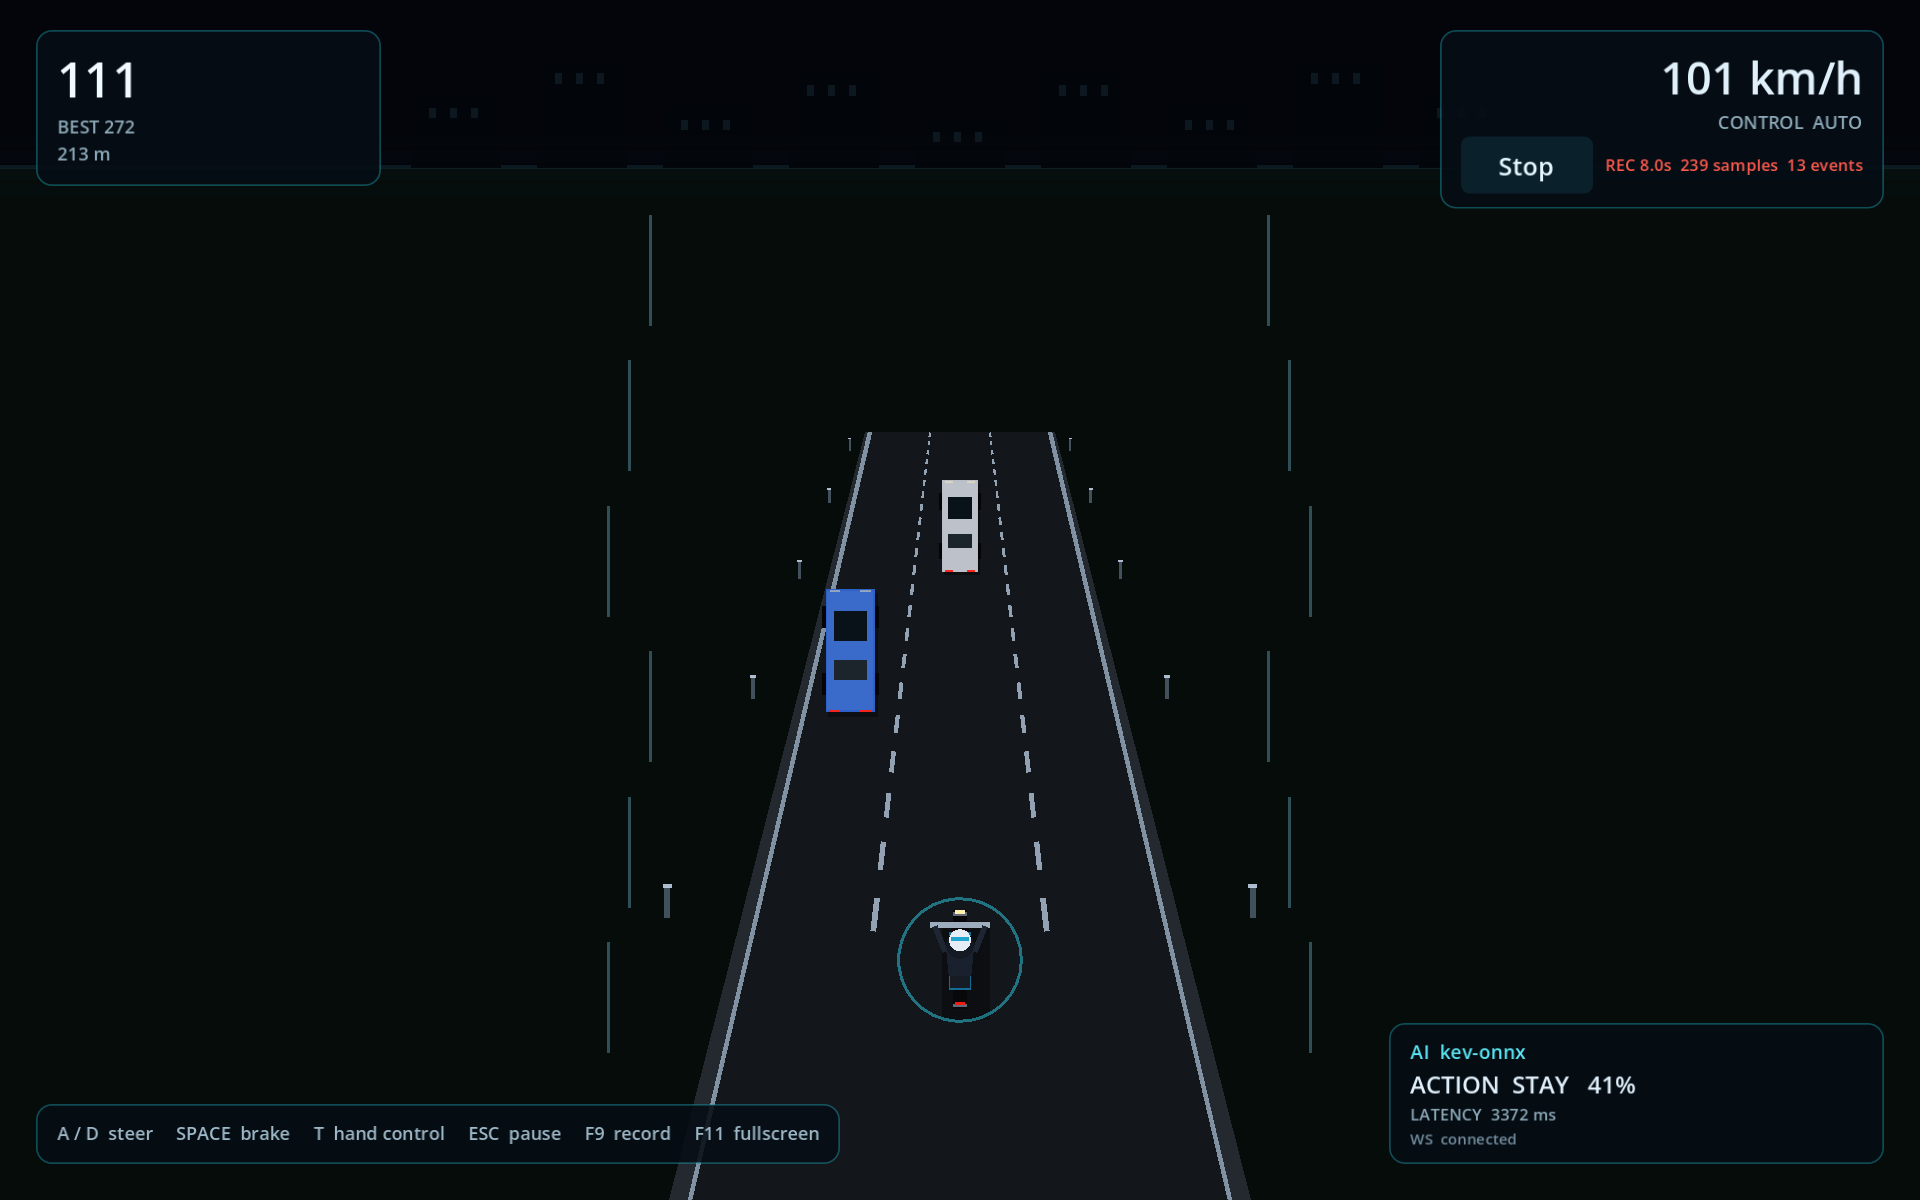
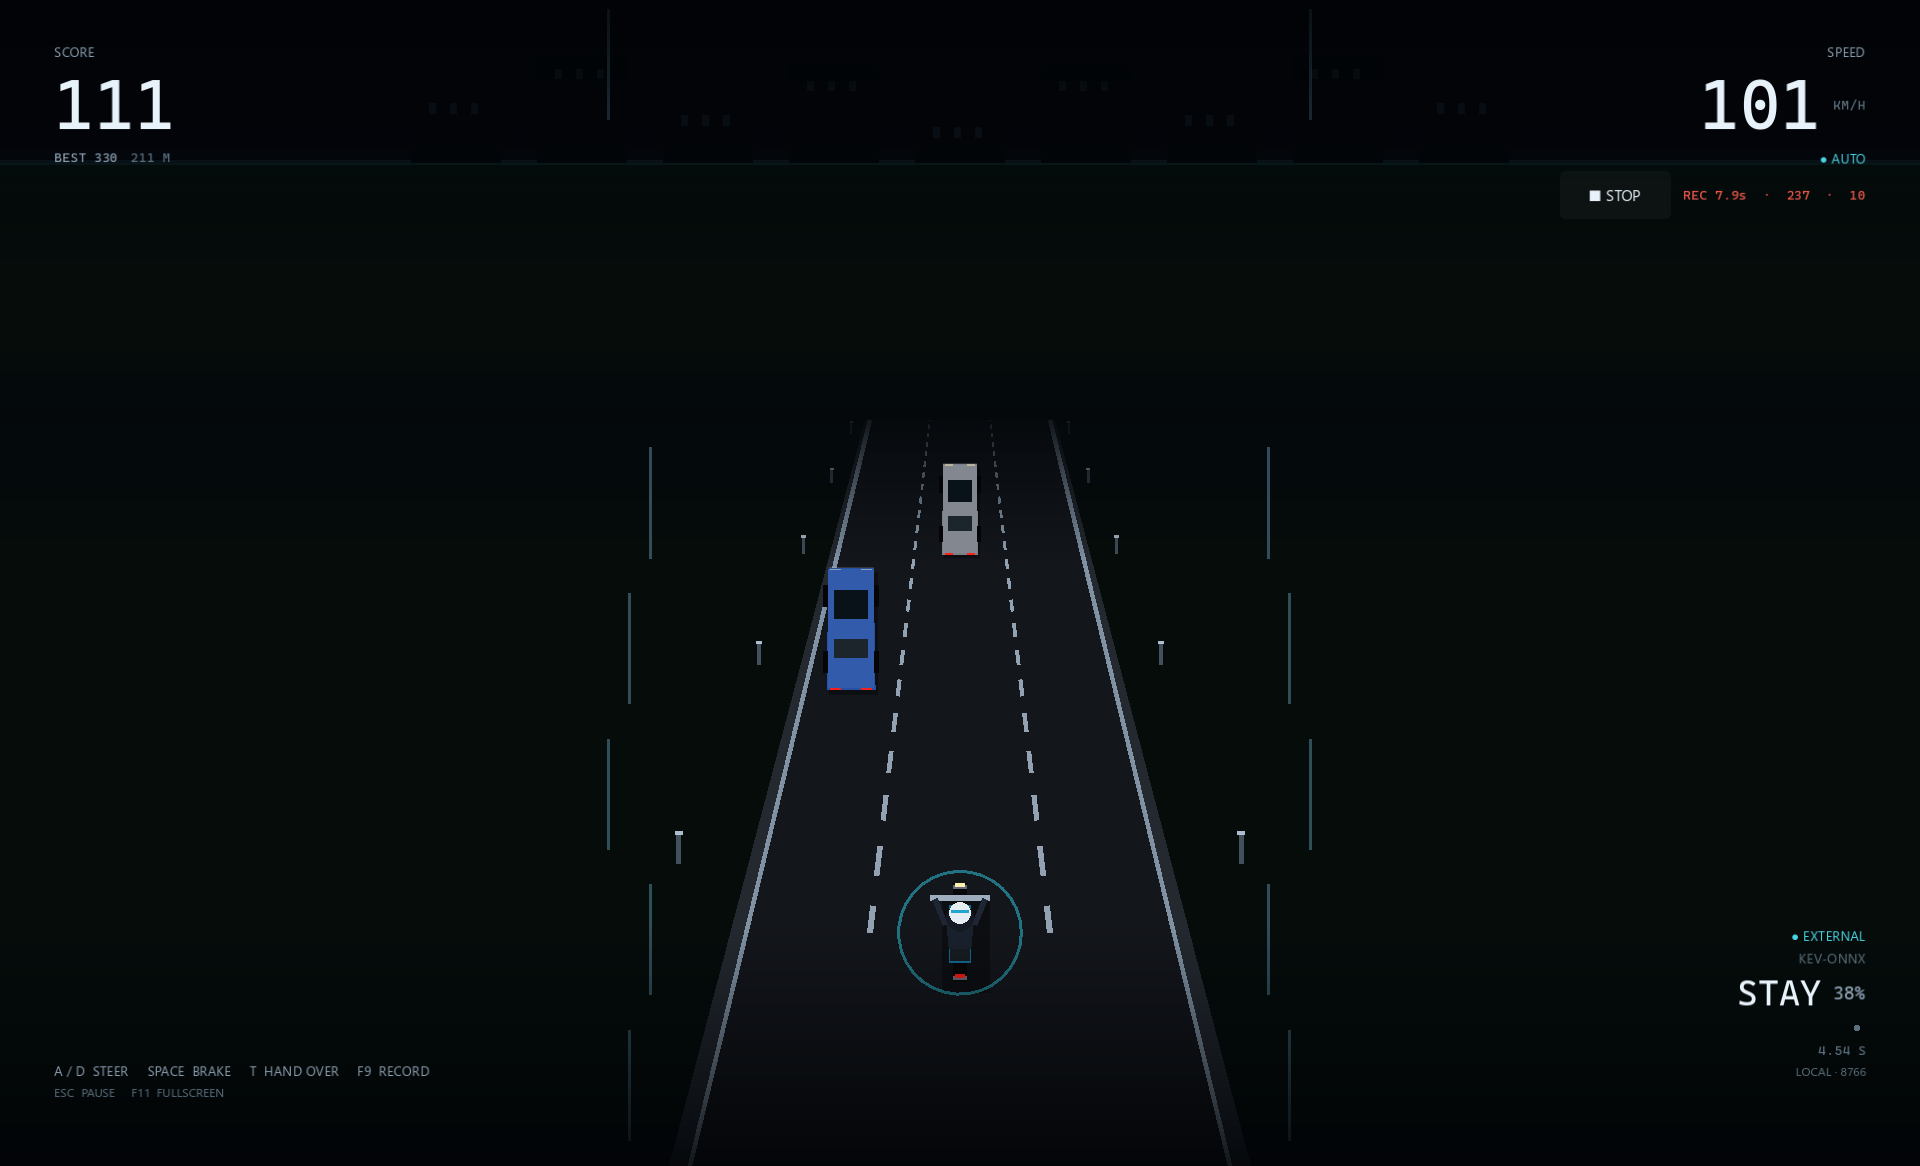
docs: refresh screenshots and packaged Kev notes

diff --git a/CHECKPOINT.md b/CHECKPOINT.md
@@ -2,18 +2,23 @@
 
 ## Current state
 
-- Godot 4.7.2 top-down three-lane driving game with a coherent pseudo-perspective road, lane geometry, traffic sprites, crash feedback, corner HUD, fullscreen by default and a presentation-only title state.
-- Authoritative simulation with seeded traffic, discrete actions and episode summaries. Action counts now count accepted actions rather than only action changes.
+- Godot 4.7.2 top-down three-lane driving game with a coherent pseudo-perspective road, depth fog, lane geometry, traffic sprites, crash feedback and a typographic corner HUD with no bordered scene panels.
+- Title screen is a left-aligned composition over the live road, not a centered dialog. Pause and run-ended states use the same type and one primary action.
+- The HUD has a large score/speed pair, small tracked captions, an AI instrument with action probability, action-history dots, latency and local WebSocket state, and a first-run controls line.
+- Authoritative simulation with seeded traffic, discrete actions and episode summaries. Action counts count accepted actions rather than only action changes.
 - Telemetry logger with an explicit session lifetime. Recording after a run has already started no longer disables the logger. Recovery files stay under the portable recordings root.
 - Python controller with `dummy`, `rule_based`, local ONNX Kev and the HTTP Kev System One adapter. The ONNX path records a configurable model id, label source and SHA-256 of the model file.
+- The packaged launcher uses `Start-Process` for the exported game so `--ws-port` survives the Windows argument binding, and waits for the controller before launching.
+- The ONNX policy falls back to in-memory external weights on RAM disks. This is what makes the packaged agent work when the folder is extracted to `R:`; the first load is slower.
 - Matched experiment runner for baselines and ONNX. It passes the same seed list, duration, traffic density, simulation speed, timeout and staleness bounds to every policy.
-- One-click local Kev play: `PLAY-KEV.bat` starts the ONNX controller and the game, opens the AI status panel and records the session.
+- One-click local Kev play: `PLAY-KEV.bat` starts the ONNX controller and the game, opens the AI instrument and records the session.
 
 ## Verification
 
 - `run_tests.bat`: 38 Python tests plus Godot import, simulation, game-flow, network, telemetry, telemetry-flow and options tests pass.
 - `tests/telemetry_flow_test.gd` reproduces the real user path: start a run, play before Record, press Record, play, stop, then assert non-zero telemetry and events and a matching manifest.
-- Local ONNX Kev: 5 decisions in an 8-second episode, all accepted, `control_source=original_model`, mean model latency about 1.36 s.
+- Local ONNX Kev on the normal disk: 5 decisions in an 8-second episode, all accepted, `control_source=original_model`, mean model latency about 1.36 s.
+- Packaged ONNX Kev extracted to `R:`: the in-memory fallback loads the weights, the controller connects over WebSocket 8766, and the game accepts decisions (`control_source=original_model`). The RAM-disk fallback is slower, roughly 4.5 s per decision in the test run.
 - Matched pilot: `rule_based` vs `onnx_kev`, same 5 seeds, 20 s, density 0.7, sim speed 1.0. See `docs/RESULTS.md` for the numbers.
 
 ## Remaining work

diff --git a/README.md b/README.md
@@ -11,7 +11,7 @@ The project is intended to support experiments in fine-tuning compact decision m
 What works today:
 
 - A playable Godot driving simulator with human keyboard controls, a title screen, HUD, pause, game over and restart.
-- A coherent pseudo-perspective road, lane geometry, traffic sprites, crash feedback and corner HUD (the earlier full-width toolbar and lane markings through cars are gone).
+- A coherent pseudo-perspective road with depth fog, lane geometry, traffic sprites, crash feedback, a typographic corner HUD, and a left-aligned title composition over the live road. The earlier full-width toolbar, bordered HUD cards and lane markings through cars are gone.
 - Simulation-state export and periodic telemetry at roughly 30 Hz of simulation time. Recording works after a run has already started; the integration test covers that path.
 - Event-based action and episode logs.
 - A Python controller communicating with the game over a localhost WebSocket.
@@ -77,7 +77,9 @@ PLAY-KEV.bat -Windowed
 PLAY-KEV.bat -Episodes 10 -EpisodeDuration 20
 ```
 
-The controller starts on port `8766`, waits for the model to load, then launches the game in auto-run with Kev in control. The bottom-right panel shows the model alias, the chosen action, the probability and the inference latency. The player has a cyan ring while the external controller has control. Close the game window to stop both processes.
+The controller starts on port `8766`, waits for the model to load, then launches the game in auto-run with Kev in control. The bottom-right instrument shows the model alias, the chosen action, the probability and the inference latency. The player has a cyan ring while the external controller has control. Close the game window to stop both processes.
+
+The packaged build can be extracted to `R:`. ONNX Runtime cannot validate the external-data path on that RAM disk, so the controller loads the 1.5 GB weight blob into memory with conservative session options. The first load can take 30–90 seconds; the launcher waits for it. The extracted-on-`R:` test accepted real Kev decisions with `control_source=original_model`. Inference is slower on that path, around 4.5 s per decision.
 
 The controller log is written to `logs\kev-controller.log`.
 
